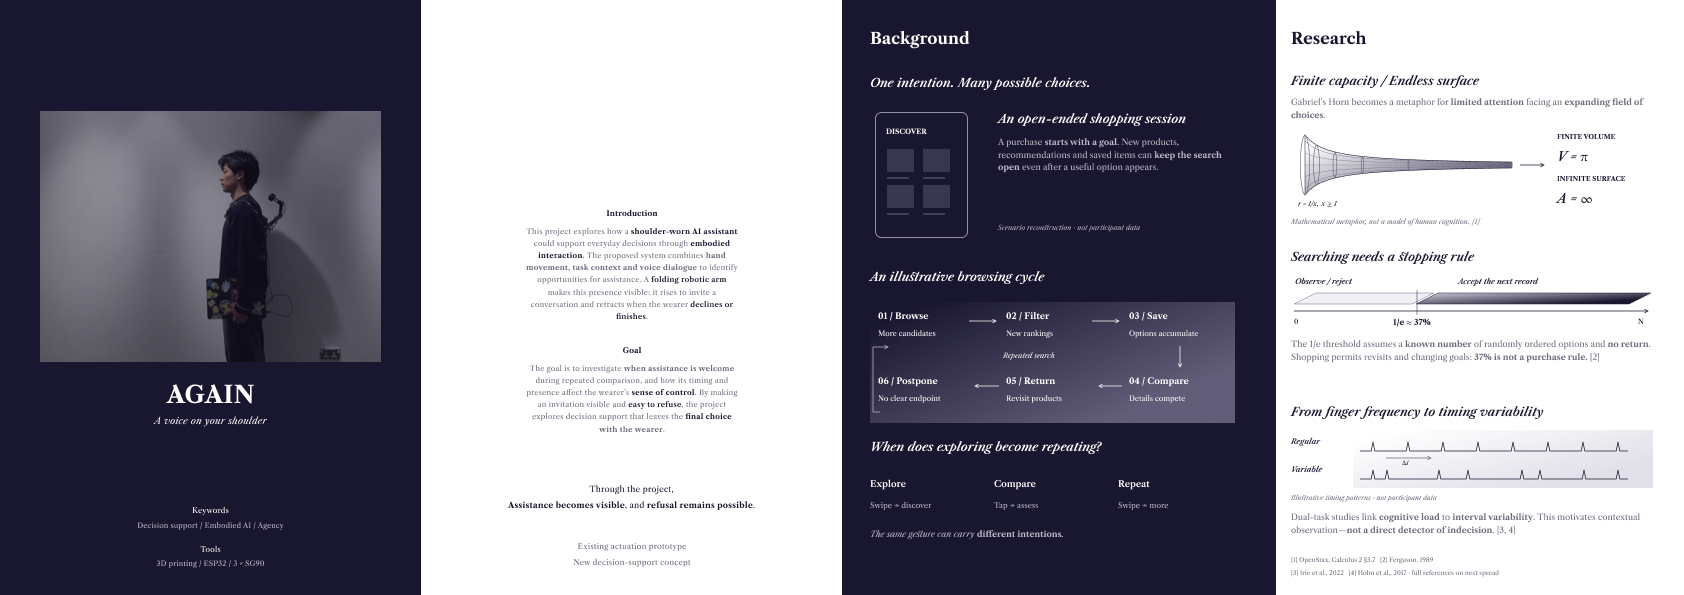
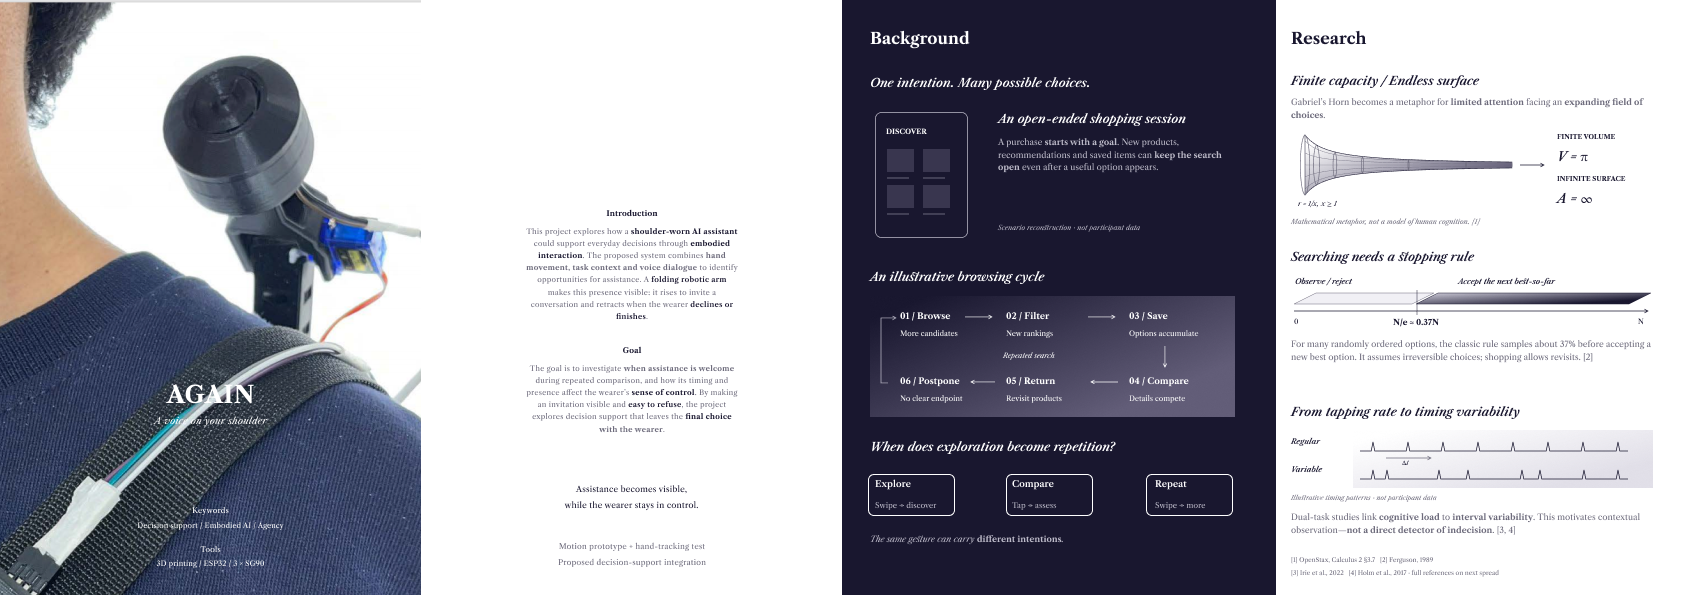
Sync final Figma portfolio and hand-tracking test documentation

diff --git a/index.html b/index.html
@@ -36,20 +36,20 @@
       <div class="section-label"><h2>01 / Context &amp; research</h2><small>Portfolio spread · 1684 × 595</small></div>
       <figure><a class="spread" href="assets/spread-01.png" target="_blank" rel="noopener" aria-label="Open spread 1 at full size"><img src="assets/spread-01.png" width="1684" height="595" alt="AGAIN cover, introduction, shopping comparison background, and research on limited attention, stopping rules, and finger timing."></a><figcaption><p>Limited attention meets an expanding field of choices. Mathematical metaphors and timing research frame the design question.</p><a class="zoom" href="assets/spread-01.png" target="_blank" rel="noopener">View full size ↗</a></figcaption></figure>
       <div class="section-label"><h2>02 / Evidence &amp; design roadmap</h2><small>Portfolio spread · 1684 × 595</small></div>
-      <figure><a class="spread" href="assets/spread-02.png" target="_blank" rel="noopener" aria-label="Open spread 2 at full size"><img src="assets/spread-02.png" width="1684" height="595" loading="lazy" alt="Research evidence on tapping variability and cognitive load, an observe-confirm-invite pipeline, and the shoulder assistant interaction roadmap."></a><figcaption><p>Observe contextual cues, ask whether help is wanted, offer advice, and return to rest. A pause alone does not establish hesitation.</p><a class="zoom" href="assets/spread-02.png" target="_blank" rel="noopener">View full size ↗</a></figcaption></figure>
-      <div class="section-label"><h2>03 / Structure &amp; technical framework</h2><small>Portfolio spread · 1684 × 595</small></div>
-      <figure><a class="spread" href="assets/spread-03.png" target="_blank" rel="noopener" aria-label="Open spread 3 at full size"><img src="assets/spread-03.png" width="1684" height="595" loading="lazy" alt="Mechanical structure tests, printed model iterations, prototype evaluation, and the proposed camera, computer, voice service, ESP32, and servo architecture."></a><figcaption><p>A printed shoulder mechanism driven by three SG90 servos. The proposed sensing and voice architecture builds on this physical prototype.</p><a class="zoom" href="assets/spread-03.png" target="_blank" rel="noopener">View full size ↗</a></figcaption></figure>
+      <figure><a class="spread" href="assets/spread-02.png" target="_blank" rel="noopener" aria-label="Open spread 2 at full size"><img src="assets/spread-02.png" width="1684" height="595" loading="lazy" alt="Research evidence on tapping variability and cognitive load, an observe-contextualize-invite pipeline, and the shoulder assistant interaction roadmap."></a><figcaption><p>Observe contextual cues, ask whether help is wanted, offer advice, and return to rest. A pause alone does not establish hesitation.</p><a class="zoom" href="assets/spread-02.png" target="_blank" rel="noopener">View full size ↗</a></figcaption></figure>
+      <div class="section-label"><h2>03 / Finger-motion test &amp; prototyping</h2><small>Portfolio spread · 1684 × 595</small></div>
+      <figure><a class="spread" href="assets/spread-03.png" target="_blank" rel="noopener" aria-label="Open spread 3 at full size"><img src="assets/spread-03.png" width="1684" height="595" loading="lazy" alt="MediaPipe and TouchDesigner finger-motion test comparing labelled hesitation with active tapping, mechanical iterations, and a proposed AI and ESP32 architecture."></a><figcaption><p>A camera-based finger-motion test and a printed shoulder mechanism driven by three SG90 servos. A calibrated rate threshold could prompt an invitation; integrated AI-triggered motion remains planned.</p><a class="zoom" href="assets/spread-03.png" target="_blank" rel="noopener">View full size ↗</a></figcaption></figure>
       <div class="section-label"><h2>04 / Scenario &amp; evaluation</h2><small>Portfolio spread · 1684 × 595</small></div>
       <figure><a class="spread" href="assets/spread-04.png" target="_blank" rel="noopener" aria-label="Open spread 4 at full size"><img src="assets/spread-04.png" width="1684" height="595" loading="lazy" alt="Application scenario, shoulder-arm motion sequence, behavioral analysis, and a proposed evaluation plan."></a><figcaption><p>From a folded resting posture to an invitation for conversation. Evaluation focuses on useful timing, wearer control, and physical comfort.</p><a class="zoom" href="assets/spread-04.png" target="_blank" rel="noopener">View full size ↗</a></figcaption></figure>
     </section>
     <section class="notes" id="prototype" aria-labelledby="status-title">
-      <div class="notes-inner"><div><span class="status">Built prototype</span><h2 id="status-title">Making attention visible.</h2><p>The existing mechanical demo uses <strong>an ESP32, three SG90 servos, and 3D-printed parts</strong> to fold, rise, and retract. Its structure was adapted from an earlier project and developed through model iterations.</p><p>The current ultrasonic sensor and buzzer are prototype components. They do not provide the proposed camera and microphone functions.</p></div><div><span class="status">Proposed extension</span><h2>From motion to dialogue.</h2><p>A camera would send video to a computer running MediaPipe. An instrumented Android shopping task would supply actual touch timestamps. A XiaoZhi-based voice service with Qwen would support dialogue, with MCP tool calls requesting bounded motion from the ESP32.</p><p><strong>Vision, AI integration, and user evaluation remain planned work.</strong> Hand motion is a contextual cue; it neither proves screen contact nor directly measures indecision.</p></div></div>
+      <div class="notes-inner"><div><span class="status">Built prototype + hand-tracking test</span><h2 id="status-title">Making attention visible.</h2><p>The existing mechanical demo uses <strong>an ESP32, three SG90 servos, and 3D-printed parts</strong> to fold, rise, and retract. Its structure was adapted from an earlier project and developed through model iterations.</p><p>A separate camera test streams <strong>MediaPipe hand landmarks to TouchDesigner</strong>, using index- and thumb-tip positions from both hands. Active tapping shows recurring cycles in the recorded clip; the hesitation-labelled clip is less periodic. The test tracks coordinates, without calculating joint angles.</p><p>The current wearable ultrasonic sensor and buzzer do not provide camera or microphone functions.</p></div><div><span class="status">Proposed extension</span><h2>From motion to dialogue.</h2><p>An instrumented Android shopping task would supply actual touch timestamps alongside the tested hand tracking. A XiaoZhi-based voice service with Qwen would support dialogue, with MCP tool calls requesting bounded motion from the ESP32.</p><p><strong>End-to-end AI integration and user evaluation remain planned work.</strong> A proposed trigger would use a personally calibrated movement-rate threshold and hold time, with valid tracking and task context, before raising the arm to ask whether help is wanted. No numeric threshold has yet been validated. Hand motion neither proves screen contact nor directly measures indecision.</p></div></div>
       <details><summary>Research references &amp; interpretation</summary><ol>
         <li><a href="https://openstax.org/books/calculus-volume-2/pages/3-7-improper-integrals">OpenStax, Calculus Volume 2, §3.7.</a> Gabriel’s Horn is used as a mathematical metaphor for finite capacity and an endless surface, not as a model of human cognition.</li>
         <li><a href="https://doi.org/10.1214/ss/1177012493">Ferguson (1989), Who Solved the Secretary Problem?</a> The 1/e stopping threshold assumes a known number of randomly ordered options and irreversible choices. It is not a shopping rule.</li>
         <li><a href="https://doi.org/10.7717/peerj.13944">Irie et al. (2022), Mental arithmetic modulates temporal variabilities of finger-tapping tasks in a tempo-dependent manner.</a> Supports task-dependent differences in timing variability, not a direct detector of hesitation.</li>
         <li><a href="https://doi.org/10.1007/s00221-016-4839-6">Holm et al. (2017), Executive control and working memory are involved in sub-second repetitive motor timing.</a> Laboratory memory-load findings motivate a design hypothesis that still needs validation in phone use.</li>
-      </ol><p>Research diagrams are qualitative summaries or illustrative schematics. They are not participant data collected for this project.</p></details>
+      </ol><p>The literature diagrams on spreads 1–2 are qualitative summaries or illustrative schematics. The finger-motion plots on spread 3 are traced from screenshots of the preliminary camera test, with individual vertical scales and an uncalibrated time axis. They do not establish numeric tapping frequencies, a hesitation ratio, or recognition accuracy.</p></details>
     </section>
   </main>
   <footer><span>AGAIN — A voice on your shoulder</span><a href="https://github.com/leviastudio925-collab/again-shoulder-assistant">Project repository ↗</a></footer>

diff --git a/README.md b/README.md
@@ -10,21 +10,30 @@ Four current portfolio spreads, each 1684 × 595, are published in `assets/`:
 
 1. Context, background, and research
 2. Research evidence, behavioral measures, and design roadmap
-3. Structure tests, prototyping, and technical framework
+3. Finger-motion test, prototyping, and technical framework
 4. Application scenario, motion sequence, and evaluation plan
 
 The webpage uses the project's navy palette and Libre Caslon Text. Open any spread to view it at full size.
 
+These four spreads were synchronized from the [Figma portfolio page](https://www.figma.com/design/ApoghdbZoRBlbBcDctaMXf/Untitled?node-id=96-160) on 12 October 2026.
+
 ## Prototype status
 
 - **Existing physical demo:** ESP32, three SG90 servos, and printed mechanical parts; folded, raised, and retracted poses. The structure is adapted from an earlier project.
-- **Planned integration:** camera video to computer-based MediaPipe tracking; Android test-page touch events; XiaoZhi-based voice service with Qwen; MCP tool requests for bounded ESP32 motion.
+- **Completed hand-tracking test:** camera-based MediaPipe landmarks streamed to TouchDesigner, using index- and thumb-tip positions from both hands to explore tapping rhythm. The test uses coordinates, without calculating joint angles.
+- **Planned integration:** hand-motion cues combined with Android test-page touch events; XiaoZhi-based voice service with Qwen; MCP tool requests for bounded ESP32 motion.
 - **Prototype placeholders:** the current ultrasonic sensor and buzzer do not implement the proposed camera and microphone functions.
 - **Evaluation pending:** comfort, endurance, movement repeatability, and usefulness of intervention timing.
 
 Hand movement and timing variation are contextual cues, not proof of screen contact or indecision. The wearer is asked whether assistance is wanted.
 
-This repository publishes the portfolio website and its visual assets. It does not contain working AI firmware or completed vision integration.
+This repository publishes the portfolio website and its visual assets. It does not contain the TouchDesigner project, firmware, or a working end-to-end AI integration.
+
+## Finger-motion test and proposed assistance trigger
+
+The active-tapping clip shows recurring movement cycles; the hesitation-labelled clip is less periodic. This is a preliminary qualitative observation, not a measured hesitation score or a validated classifier. The plotted traces were reconstructed from screenshots with individual vertical scales and an uncalibrated time axis, so they do not establish a numeric tapping frequency or a frequency-to-hesitation ratio.
+
+A proposed next step counts valid movement cycles over a calibrated time window: **f = N / T**, where N is the number of cycles and T is the window duration in seconds. If the rate remains below a personally calibrated threshold for a set duration, with valid tracking and relevant task context, the arm would rise and ask whether assistance is welcome. The wearer could accept, decline, or stop; declining would return the arm to rest. No numeric threshold has yet been validated. Missing tracking should not trigger assistance.
 
 ## Research
 
@@ -33,7 +42,7 @@ This repository publishes the portfolio website and its visual assets. It does n
 - [Irie et al. (2022), Mental arithmetic modulates temporal variabilities of finger-tapping tasks in a tempo-dependent manner](https://doi.org/10.7717/peerj.13944).
 - [Holm et al. (2017), Executive control and working memory are involved in sub-second repetitive motor timing](https://doi.org/10.1007/s00221-016-4839-6).
 
-Portfolio research figures are qualitative summaries or illustrative schematics, not newly collected participant data. Transfer from laboratory tapping tasks to shopping hesitation remains a design hypothesis.
+The literature diagrams on spreads 1–2 are qualitative summaries or illustrative schematics, not newly collected participant data. The finger-motion plots on spread 3 illustrate this project's preliminary camera test and are traced from its screenshots. Transfer from laboratory tapping tasks to shopping hesitation remains a design hypothesis; a user study of assistance timing is still planned.
 
 ## Local viewing and deployment
 
